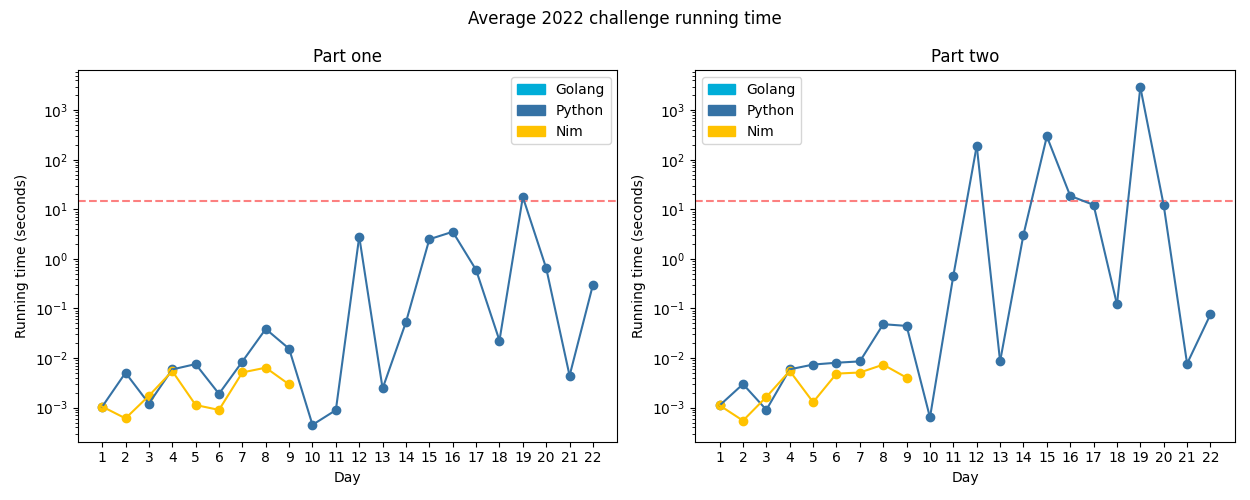
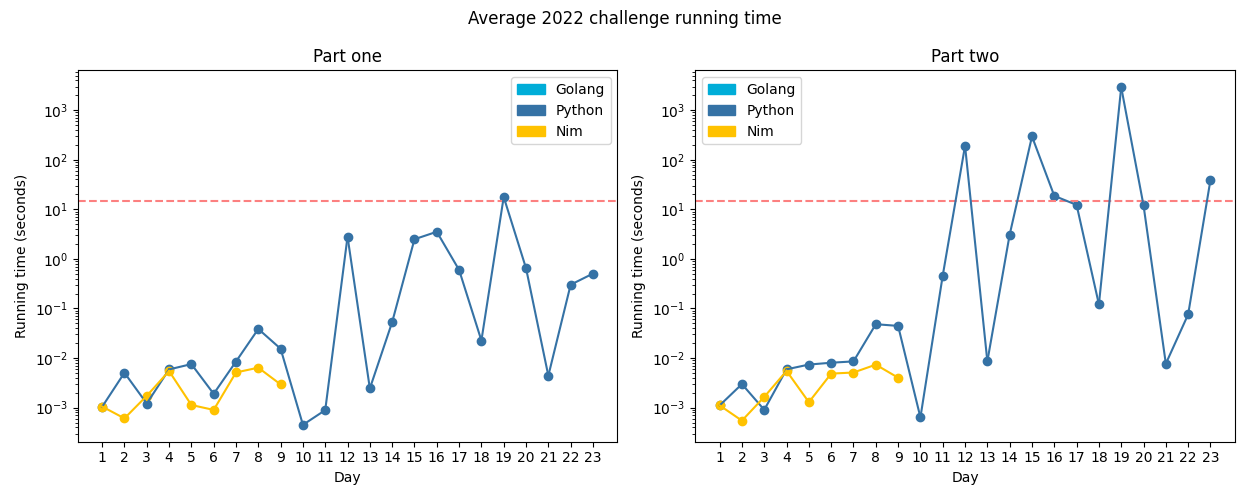
2022-23

diff --git a/challenges/2022/23-unstableDiffusion/py/__init__.py b/challenges/2022/23-unstableDiffusion/py/__init__.py
@@ -1,0 +1,146 @@
+from __future__ import annotations
+from typing import *
+from aocpy import BaseChallenge, Vector, min_max
+from enum import Enum
+
+
+class CellState(Enum):
+    OCCUPIED = "#"
+    EMPTY = "."
+
+
+class Direction(Enum):
+    NORTH = (0, -1)
+    EAST = (1, 0)
+    SOUTH = (0, 1)
+    WEST = (-1, 0)
+
+
+ADJACENT_POSITIONS = [
+    (0, -1),
+    (1, -1),
+    (1, 0),
+    (1, 1),
+    (0, 1),
+    (-1, 1),
+    (-1, 0),
+    (-1, -1),
+]
+
+
+CHECK_POSITIONS = {
+    Direction.NORTH.value: [Direction.NORTH.value, (1, -1), (-1, -1)],
+    Direction.EAST.value: [Direction.EAST.value, (1, 1), (1, -1)],
+    Direction.SOUTH.value: [Direction.SOUTH.value, (1, 1), (-1, 1)],
+    Direction.WEST.value: [Direction.WEST.value, (-1, 1), (-1, -1)],
+}
+
+Crater = Dict[Vector, CellState]
+
+
+def parse(instr: str) -> Crater:
+    res: Crater = {}
+
+    for y, line in enumerate(instr.strip().splitlines()):
+        for x, char in enumerate(line):
+            if char == CellState.OCCUPIED.value:
+                res[Vector(x, y)] = CellState.OCCUPIED
+
+    return res
+
+
+def step(state: Crater, directions: List[Tuple[int, int]]) -> bool:
+    next_moves: Dict[Vector, List[Vector]] = {}
+
+    for elf in state:
+        for direction in directions:
+
+            has_any_adjacent = False
+            for adj_pos in ADJACENT_POSITIONS:
+                if elf + adj_pos in state:
+                    has_any_adjacent = True
+                    break
+
+            if not has_any_adjacent:
+                break
+
+            is_avail = True
+            for check_pos in CHECK_POSITIONS[direction.value]:
+                if elf + check_pos in state:
+                    is_avail = False
+                    break
+
+            if is_avail:
+                pos = elf + direction.value
+                x = next_moves.get(pos, [])
+                x.append(elf)
+                next_moves[pos] = x
+                break
+
+    for target_pos in next_moves:
+        if len(next_moves[target_pos]) != 1:
+            continue
+
+        state[target_pos] = CellState.OCCUPIED
+        del state[next_moves[target_pos][0]]
+
+    return len(next_moves) != 0
+
+
+def print_crater(cr: Crater):
+    for y in range(-2, -2 + 12):
+        for x in range(-3, -3 + 14):
+            print(cr[(x, y)].value if (x, y) in cr else ".", end="")
+        print()
+
+    print("________________", flush=True)
+
+
+def calc_open_area(state: Crater) -> int:
+    min_x, max_x = min_max(p.x for p in state)
+    min_y, max_y = min_max(p.y for p in state)
+
+    max_x += 1
+    max_y += 1
+
+    return ((max_x - min_x) * (max_y - min_y)) - len(state)
+
+
+class Challenge(BaseChallenge):
+    @staticmethod
+    def one(instr: str) -> int:
+        inp = parse(instr)
+
+        directions = [
+            Direction.NORTH,
+            Direction.SOUTH,
+            Direction.WEST,
+            Direction.EAST,
+        ]
+
+        for _ in range(10):
+            step(inp, directions)
+            directions.append(directions.pop(0))
+
+        return calc_open_area(inp)
+
+    @staticmethod
+    def two(instr: str) -> int:
+        inp = parse(instr)
+
+        directions = [
+            Direction.NORTH,
+            Direction.SOUTH,
+            Direction.WEST,
+            Direction.EAST,
+        ]
+
+        n = 0
+        while True:
+            did_something_move = step(inp, directions)
+            n += 1
+            if not did_something_move:
+                break
+            directions.append(directions.pop(0))
+
+        return n

diff --git a/challenges/2022/README.md b/challenges/2022/README.md
@@ -14,27 +14,28 @@ The red dotted line denotes 15 seconds.
 
 <!-- ★ ☆ -->
 
-| Day                                 | Status             | Solutions  | Notes  |
-| ----------------------------------- | ------------------ | ---------- | ------ |
-| 01 - Calorie Counting               | ★ ★                | [Python](01-calorieCounting/py/__init__.py), [Nim](01-calorieCounting/nim/challenge.nim), [Java](01-calorieCounting/java/src) | Summing numbers |
-| 02 - Rock Paper Scissors            | ★ ★                | [Python](02-rockPaperScissors/py/__init__.py), [Nim](02-rockPaperScissors/nim/challenge.nim) | Programmatically playing Rock Paper Scissors |
-| 03 - Rucksack Reorganization        | ★ ★                | [Python](03-rucksackReorganization/py/__init__.py), [Nim](03-rucksackReorganization/nim/challenge.nim) | Sets and intersections |
-| 04 - Camp Cleanup                   | ★ ★                | [Python](04-campCleanup/py/__init__.py), [Nim](04-campCleanup/nim/challenge.nim) | More sets and more intersections! |
-| 05 - Supply Stacks                  | ★ ★                | [Python](05-supplyStacks/py/__init__.py), [Nim](05-supplyStacks/nim/challenge.nim) | Believe it or not, this one involved stacks. |
-| 06 - Tuning Trouble                 | ★ ★                | [Python](06-tuningTrouble/py/__init__.py), [Nim](06-tuningTrouble/nim/challenge.nim) | This is the first year I've not repeatedly forgotten about the existence of sets, and it's coming in quite handy. |
-| 07 - No Space Left On Device        | ★ ★                | [Python](07-noSpaceLeftOnDevice/py/__init__.py) | Turns out that fake file systems are prone to very subtle and infuriating bugs. |
-| 08 - Treetop Tree House             | ★ ★                | [Python](08-treetopTreeHouse/py/__init__.py) | Magical coordinate dictionary tuple things do be magical. |
-| 09 - Rope Bridge                    | ★ ★                | [Python](09-ropeBridge/py/__init__.py), [Nim](09-ropeBridge/nim/challenge.nim) | Does this count as this year's first cellular automata? |
-| 10 - Cathode-Ray Tube               | ★ ★                | [Python](10-cathodeRayTube/py/__init__.py) | A nasty problem with a nasty solution and nasty outputs that mess with my framework. |
-| 11 - Monkey in the Middle           | ★ ★                | [Python](11-monkeyInTheMiddle/py/__init__.py) | Return of Advent of Maths! |
-| 12 - Hill Climbing Algorithm        | ★ ★                | [Python](12-hillClimbingAlgorithm/py/__init__.py) | Iiiiiiiiiiiiiiiit's Djikstra's! |
-| 13 - Distress Signal                | ★ ★                | [Python](13-distressSignal/py/__init__.py) | Sorting some weird pairs of values with weird rules |
-| 14 - Regolith Reservoir             | ★ ★                | [Python](14-regolithReservoir/py/__init__.py) | Simulating falling sand |
-| 15 - Beacon Exclusion Zone          | ★ ★                | [Python](15-beaconExclusionZone/py/__init__.py) | Searching through a 4000000^2 size grid for a literal single empty spot |
-| 16 - Proboscidea Volcanium          | ★ ★                | [Python](16-proboscideaVolcanium/py/__init__.py) | Nasty combinatorics |
-| 17 - Pyroclastic Flow               | ★ ★                | [Python](17-pyroclasticFlow/py/__init__.py) | Detecting cycles in a large amount of knock-off Tetris. |
-| 18 - Boiling Boulders               | ★ ★                | [Python](18-boilingBoulders/py/__init__.py) | Finding the surface area of a shape specified by a list of unit cubes. |
-| 19 - Not Enough Minerals            | ★ ★                | [Python](19-notEnoughMinerals/py/__init__.py) | Finding the most effective sequence of operations to complete a specific task. |
-| 20 - Grove Positioning System       | ★ ★                | [Python](20-grovePositioningSystem/py/__init__.py) | My hell is lined with circular sequences. |
-| 21 - Monkey Math                    | ★ ★                | [Python](21-monkeyMath/py/__init__.py) | Trees of math with a fairly satisfying solution :D |
-| 22 - Monkey Map                     | ★ ★                | [Python](22-monkeyMap/py/__init__.py) | Please never ever make me trace a path around a 3D shape in two dimensions ever again |
+| Day                           | Status | Solutions                                                                                                                     | Notes                                                                                                             |
+|-------------------------------|--------|-------------------------------------------------------------------------------------------------------------------------------|-------------------------------------------------------------------------------------------------------------------|
+| 01 - Calorie Counting         | ★ ★    | [Python](01-calorieCounting/py/__init__.py), [Nim](01-calorieCounting/nim/challenge.nim), [Java](01-calorieCounting/java/src) | Summing numbers                                                                                                   |
+| 02 - Rock Paper Scissors      | ★ ★    | [Python](02-rockPaperScissors/py/__init__.py), [Nim](02-rockPaperScissors/nim/challenge.nim)                                  | Programmatically playing Rock Paper Scissors                                                                      |
+| 03 - Rucksack Reorganization  | ★ ★    | [Python](03-rucksackReorganization/py/__init__.py), [Nim](03-rucksackReorganization/nim/challenge.nim)                        | Sets and intersections                                                                                            |
+| 04 - Camp Cleanup             | ★ ★    | [Python](04-campCleanup/py/__init__.py), [Nim](04-campCleanup/nim/challenge.nim)                                              | More sets and more intersections!                                                                                 |
+| 05 - Supply Stacks            | ★ ★    | [Python](05-supplyStacks/py/__init__.py), [Nim](05-supplyStacks/nim/challenge.nim)                                            | Believe it or not, this one involved stacks.                                                                      |
+| 06 - Tuning Trouble           | ★ ★    | [Python](06-tuningTrouble/py/__init__.py), [Nim](06-tuningTrouble/nim/challenge.nim)                                          | This is the first year I've not repeatedly forgotten about the existence of sets, and it's coming in quite handy. |
+| 07 - No Space Left On Device  | ★ ★    | [Python](07-noSpaceLeftOnDevice/py/__init__.py)                                                                               | Turns out that fake file systems are prone to very subtle and infuriating bugs.                                   |
+| 08 - Treetop Tree House       | ★ ★    | [Python](08-treetopTreeHouse/py/__init__.py)                                                                                  | Magical coordinate dictionary tuple things do be magical.                                                         |
+| 09 - Rope Bridge              | ★ ★    | [Python](09-ropeBridge/py/__init__.py), [Nim](09-ropeBridge/nim/challenge.nim)                                                | Does this count as this year's first cellular automata?                                                           |
+| 10 - Cathode-Ray Tube         | ★ ★    | [Python](10-cathodeRayTube/py/__init__.py)                                                                                    | A nasty problem with a nasty solution and nasty outputs that mess with my framework.                              |
+| 11 - Monkey in the Middle     | ★ ★    | [Python](11-monkeyInTheMiddle/py/__init__.py)                                                                                 | Return of Advent of Maths!                                                                                        |
+| 12 - Hill Climbing Algorithm  | ★ ★    | [Python](12-hillClimbingAlgorithm/py/__init__.py)                                                                             | Iiiiiiiiiiiiiiiit's Djikstra's!                                                                                   |
+| 13 - Distress Signal          | ★ ★    | [Python](13-distressSignal/py/__init__.py)                                                                                    | Sorting some weird pairs of values with weird rules                                                               |
+| 14 - Regolith Reservoir       | ★ ★    | [Python](14-regolithReservoir/py/__init__.py)                                                                                 | Simulating falling sand                                                                                           |
+| 15 - Beacon Exclusion Zone    | ★ ★    | [Python](15-beaconExclusionZone/py/__init__.py)                                                                               | Searching through a 4000000^2 size grid for a literal single empty spot                                           |
+| 16 - Proboscidea Volcanium    | ★ ★    | [Python](16-proboscideaVolcanium/py/__init__.py)                                                                              | Nasty combinatorics                                                                                               |
+| 17 - Pyroclastic Flow         | ★ ★    | [Python](17-pyroclasticFlow/py/__init__.py)                                                                                   | Detecting cycles in a large amount of knock-off Tetris.                                                           |
+| 18 - Boiling Boulders         | ★ ★    | [Python](18-boilingBoulders/py/__init__.py)                                                                                   | Finding the surface area of a shape specified by a list of unit cubes.                                            |
+| 19 - Not Enough Minerals      | ★ ★    | [Python](19-notEnoughMinerals/py/__init__.py)                                                                                 | Finding the most effective sequence of operations to complete a specific task.                                    |
+| 20 - Grove Positioning System | ★ ★    | [Python](20-grovePositioningSystem/py/__init__.py)                                                                            | My hell is lined with circular sequences.                                                                         |
+| 21 - Monkey Math              | ★ ★    | [Python](21-monkeyMath/py/__init__.py)                                                                                        | Trees of math with a fairly satisfying solution :D                                                                |
+| 22 - Monkey Map               | ★ ★    | [Python](22-monkeyMap/py/__init__.py)                                                                                         | Please never ever make me trace a path around a 3D shape in two dimensions ever again                             |
+| 23 - Unstable Diffusion       | ★ ★    | [Python](23-unstableDiffusion/py/__init__.py)                                                                                 | I <3 Cellular automata                                                                                            |

diff --git a/challenges/2022/23-unstableDiffusion/README.md b/challenges/2022/23-unstableDiffusion/README.md
@@ -1,0 +1,1 @@
+# [Day 23: Unstable Diffusion](https://adventofcode.com/2022/day/23)
